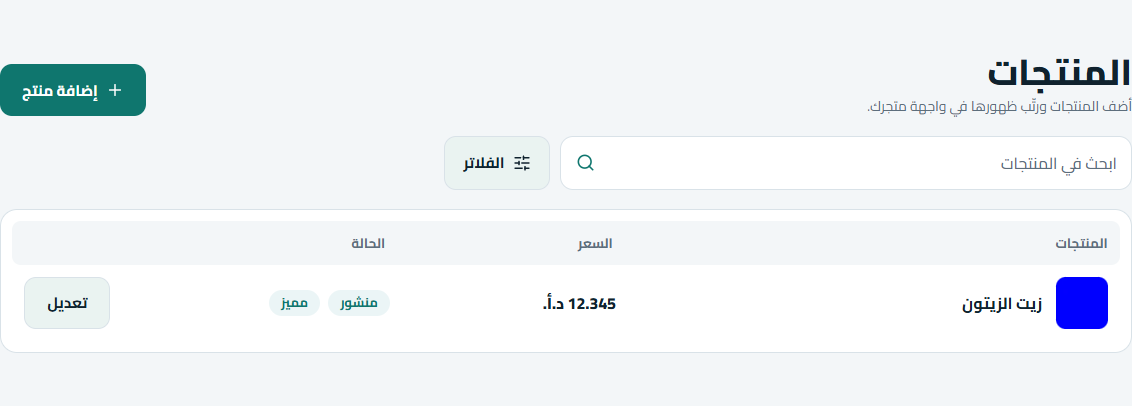
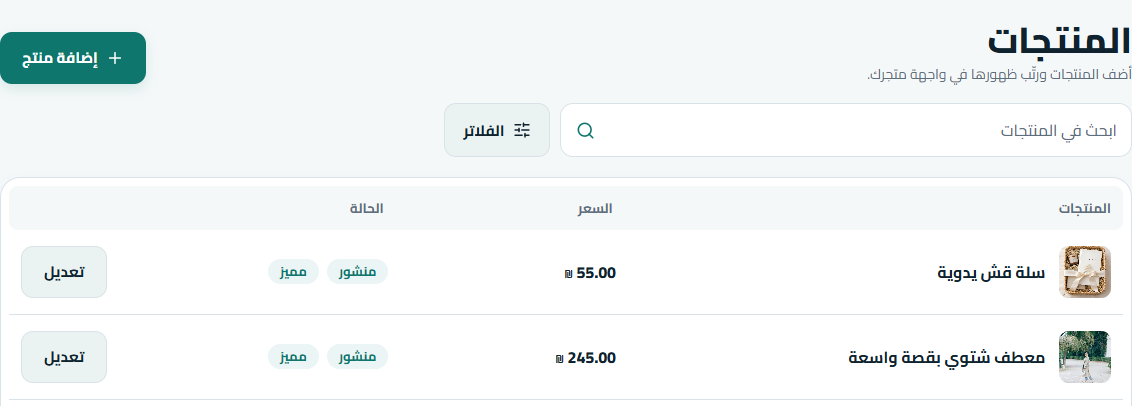
Home: dashboard preview shows the products list in shekels with real photos; quick-add label fits phone cards

diff --git a/src/app/storefront-chrome.css b/src/app/storefront-chrome.css
@@ -88,3 +88,7 @@
   .store-quick-options { gap: 0.6rem; }
   .store-quick-note { font-size: 0.82rem; font-weight: 700; }
   .store-family .family-tech-promos .store-quick { display: none; }
+  @media (max-width: 39.99rem) {
+    .store-quick-button { gap: 0.3rem; padding-inline: 0.4rem; font-size: 0.78rem; white-space: nowrap; }
+    .store-quick-button svg { inline-size: 0.95rem; block-size: 0.95rem; }
+  }
